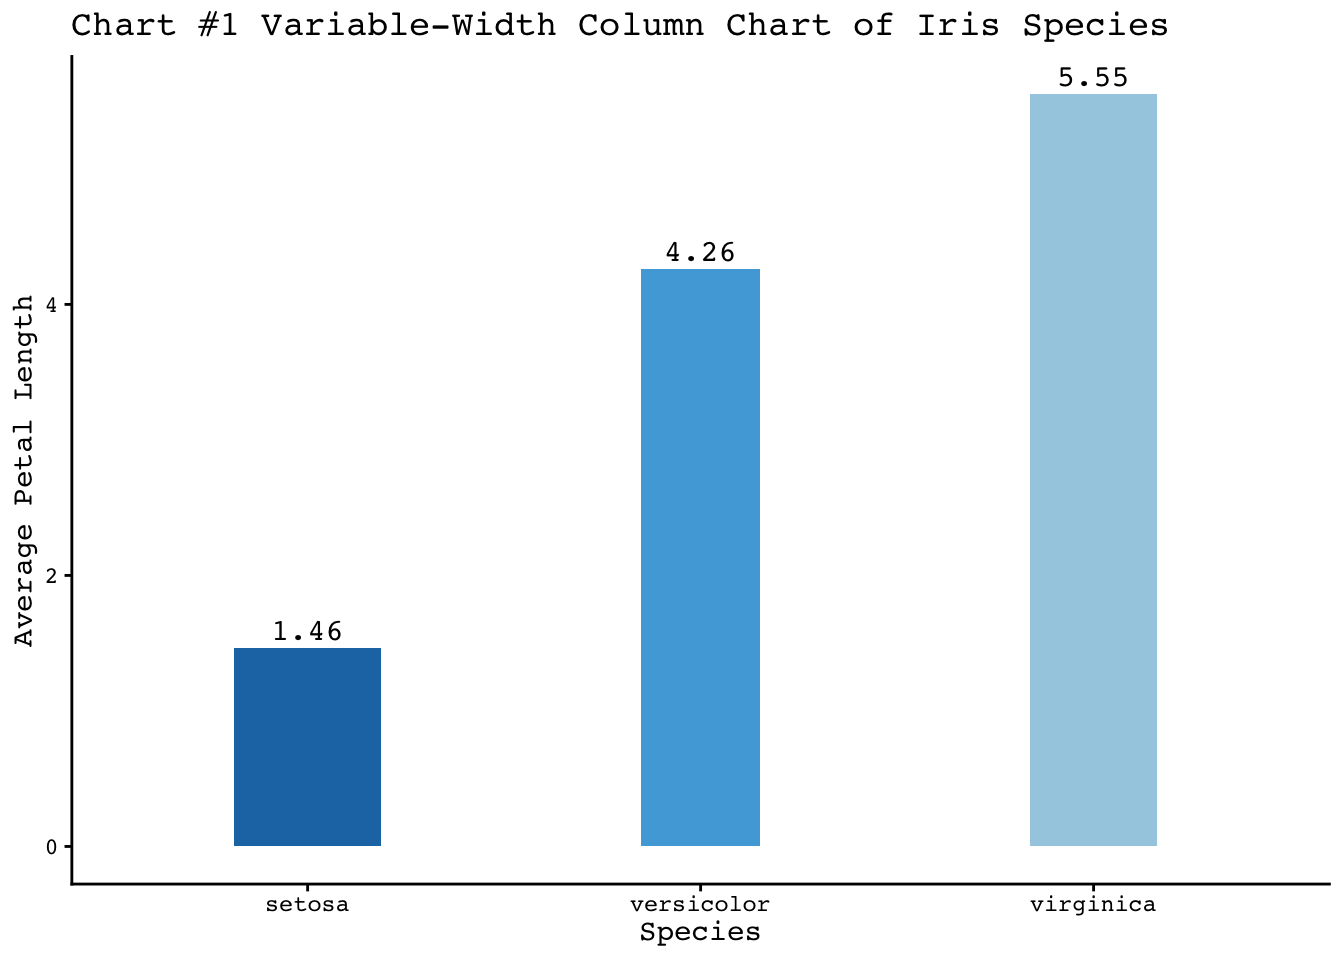
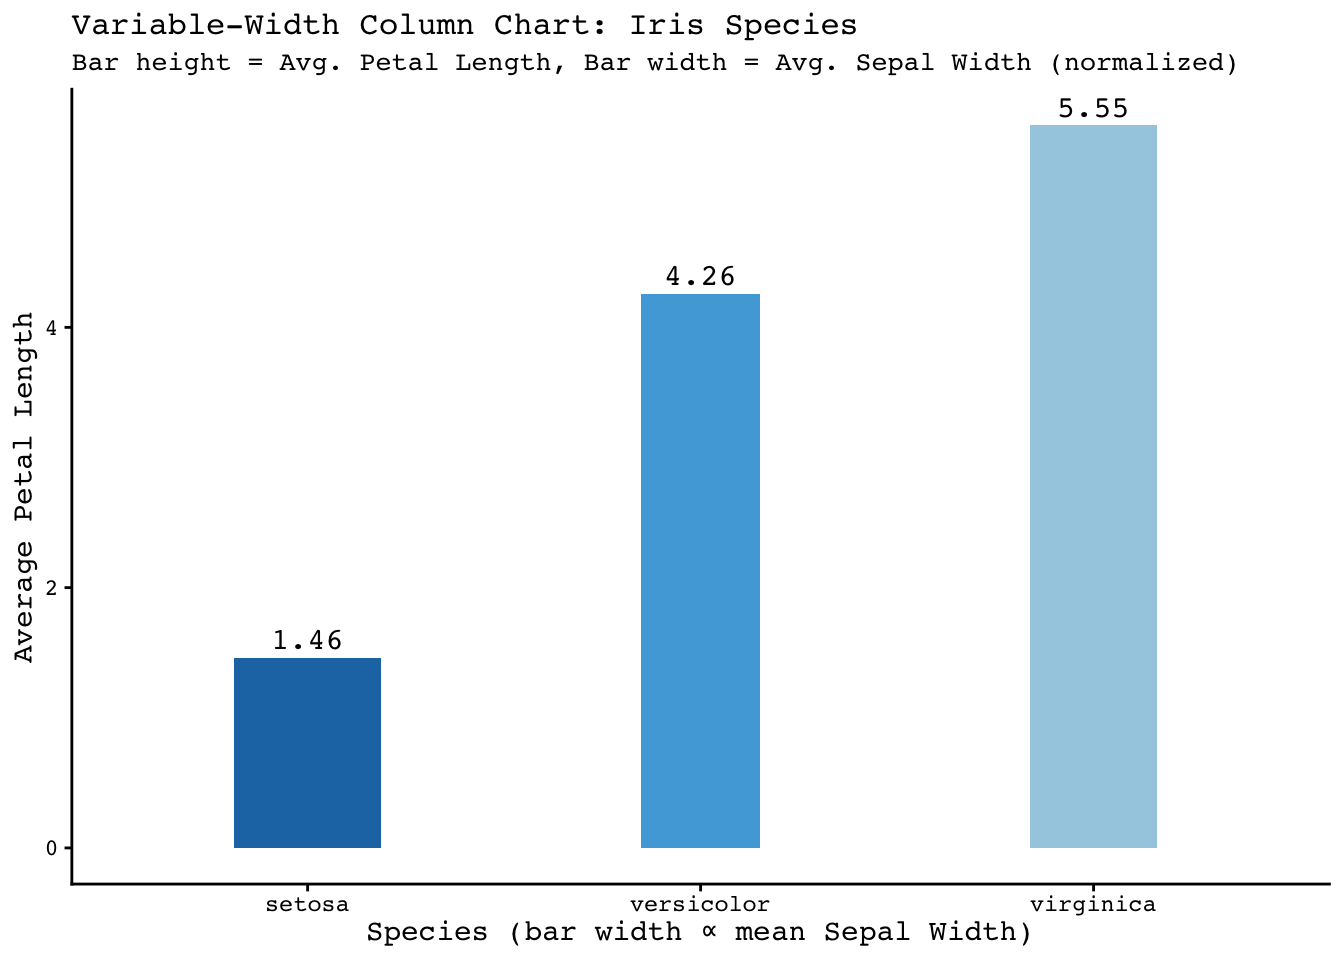
assignment 4 hackathon changes

diff --git a/docs/hackathon.html b/docs/hackathon.html
@@ -251,9 +251,18 @@ pre > code.sourceCode > span > a:first-child::before { text-decoration: underlin
 <span id="cb1-6"><a href="#cb1-6" aria-hidden="true" tabindex="-1"></a>  <span class="fu">geom_col</span>(<span class="fu">aes</span>(<span class="at">width =</span> NormWidth, <span class="at">fill =</span> Species)) <span class="sc">+</span></span>
 <span id="cb1-7"><a href="#cb1-7" aria-hidden="true" tabindex="-1"></a>  <span class="fu">geom_text</span>(<span class="fu">aes</span>(<span class="at">label =</span> <span class="fu">round</span>(Petal.Length, <span class="dv">2</span>)), <span class="at">vjust =</span> <span class="sc">-</span><span class="fl">0.5</span>, <span class="at">size =</span> <span class="dv">4</span>, <span class="at">family =</span> <span class="st">"mono"</span>) <span class="sc">+</span></span>
 <span id="cb1-8"><a href="#cb1-8" aria-hidden="true" tabindex="-1"></a>  <span class="fu">scale_fill_manual</span>(<span class="at">values =</span> <span class="fu">c</span>(<span class="at">setosa =</span> <span class="st">"#1f77b4"</span>, <span class="at">versicolor =</span> <span class="st">"#4fa9dc"</span>, <span class="at">virginica =</span> <span class="st">"#a6cee3"</span>)) <span class="sc">+</span></span>
-<span id="cb1-9"><a href="#cb1-9" aria-hidden="true" tabindex="-1"></a>  <span class="fu">labs</span>(<span class="at">title =</span> <span class="st">"Chart #1 Variable-Width Column Chart of Iris Species"</span>, <span class="at">x =</span> <span class="st">"Species"</span>, <span class="at">y =</span> <span class="st">"Average Petal Length"</span>) <span class="sc">+</span></span>
-<span id="cb1-10"><a href="#cb1-10" aria-hidden="true" tabindex="-1"></a>  <span class="fu">theme_classic</span>(<span class="at">base_family =</span> <span class="st">"mono"</span>) <span class="sc">+</span></span>
-<span id="cb1-11"><a href="#cb1-11" aria-hidden="true" tabindex="-1"></a>  <span class="fu">theme</span>(<span class="at">legend.position =</span> <span class="st">"none"</span>)</span></code></pre></div><button title="Copy to Clipboard" class="code-copy-button"><i class="bi"></i></button></div>
+<span id="cb1-9"><a href="#cb1-9" aria-hidden="true" tabindex="-1"></a>  <span class="fu">labs</span>(</span>
+<span id="cb1-10"><a href="#cb1-10" aria-hidden="true" tabindex="-1"></a>    <span class="at">title =</span> <span class="st">"Variable-Width Column Chart: Iris Species"</span>,</span>
+<span id="cb1-11"><a href="#cb1-11" aria-hidden="true" tabindex="-1"></a>    <span class="at">subtitle =</span> <span class="st">"Bar height = Avg. Petal Length, Bar width = Avg. Sepal Width (normalized)"</span>,</span>
+<span id="cb1-12"><a href="#cb1-12" aria-hidden="true" tabindex="-1"></a>    <span class="at">x =</span> <span class="st">"Species (bar width ∝ mean Sepal Width)"</span>,</span>
+<span id="cb1-13"><a href="#cb1-13" aria-hidden="true" tabindex="-1"></a>    <span class="at">y =</span> <span class="st">"Average Petal Length"</span></span>
+<span id="cb1-14"><a href="#cb1-14" aria-hidden="true" tabindex="-1"></a>  ) <span class="sc">+</span></span>
+<span id="cb1-15"><a href="#cb1-15" aria-hidden="true" tabindex="-1"></a>  <span class="fu">theme_classic</span>(<span class="at">base_family =</span> <span class="st">"mono"</span>) <span class="sc">+</span></span>
+<span id="cb1-16"><a href="#cb1-16" aria-hidden="true" tabindex="-1"></a>  <span class="fu">theme</span>(</span>
+<span id="cb1-17"><a href="#cb1-17" aria-hidden="true" tabindex="-1"></a>    <span class="at">legend.position =</span> <span class="st">"none"</span>,</span>
+<span id="cb1-18"><a href="#cb1-18" aria-hidden="true" tabindex="-1"></a>    <span class="at">plot.title =</span> <span class="fu">element_text</span>(<span class="at">size =</span> <span class="dv">12</span>),</span>
+<span id="cb1-19"><a href="#cb1-19" aria-hidden="true" tabindex="-1"></a>    <span class="at">plot.subtitle =</span> <span class="fu">element_text</span>(<span class="at">size =</span> <span class="dv">10</span>)</span>
+<span id="cb1-20"><a href="#cb1-20" aria-hidden="true" tabindex="-1"></a>  )</span></code></pre></div><button title="Copy to Clipboard" class="code-copy-button"><i class="bi"></i></button></div>
 <div class="cell-output-display">
 <div>
 <figure class="figure">
